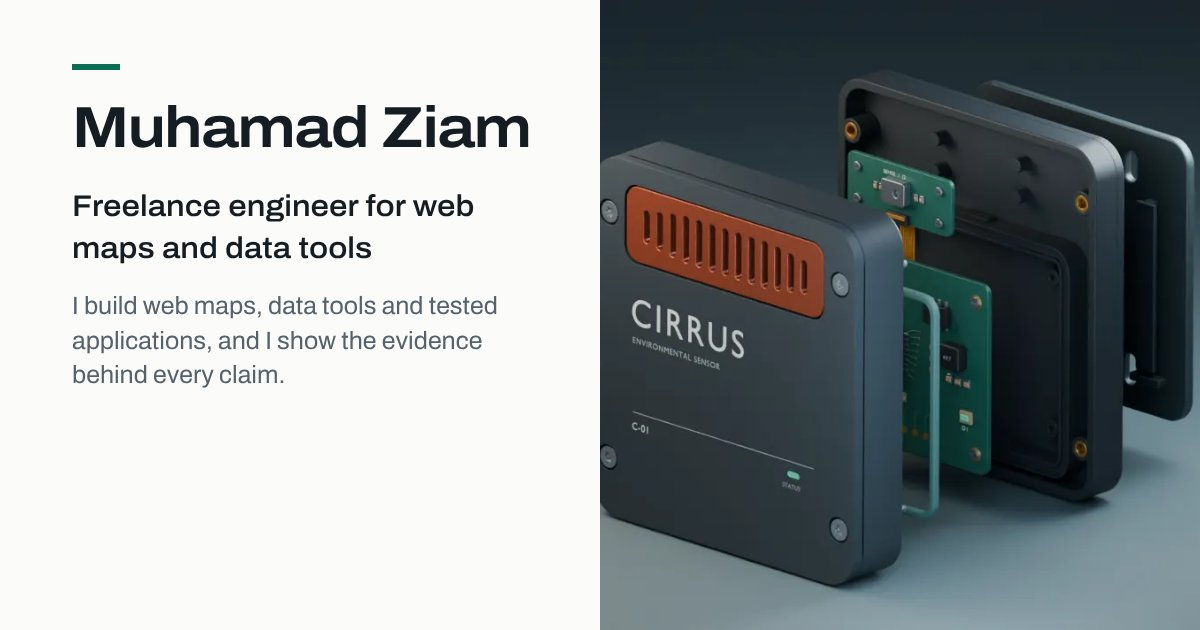
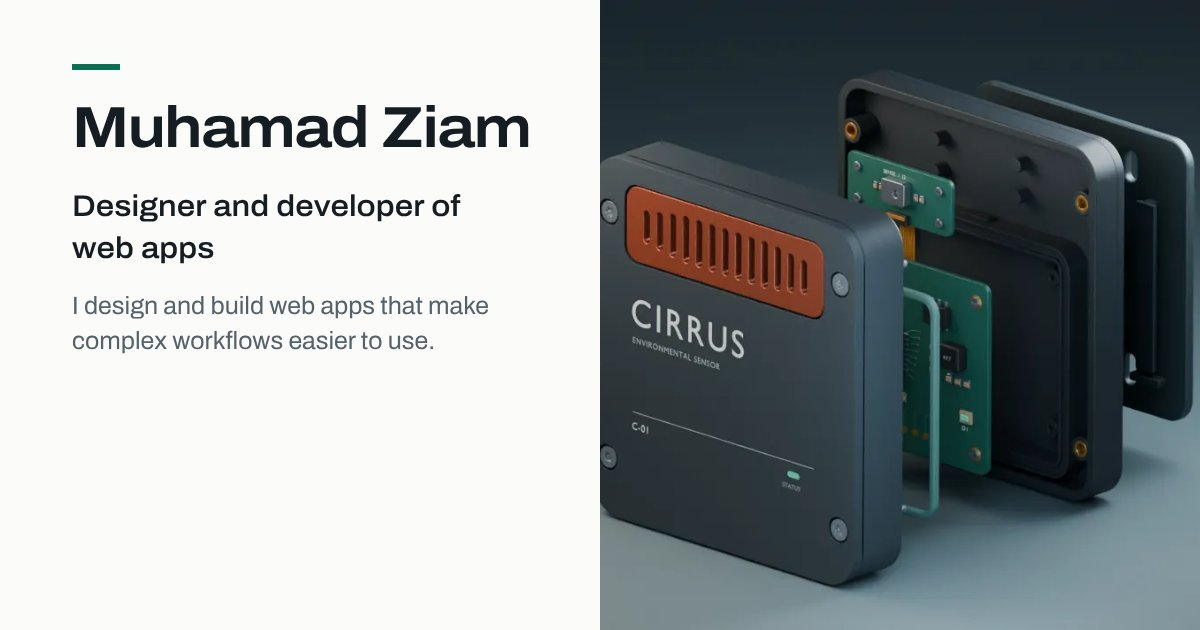
Wording from the Upwork profile: role, tagline, About and services
- Role "Designer and developer of web apps"; tagline "I design and build
  web apps that make complex workflows easier to use."
- About shows the profile description as three paragraphs (bio can now
  be a list), British spelling to match the site.
- Six services drawn from the profile: web apps for complex workflows,
  interactive prototypes, easier-to-use products, AI-assisted
  development, geospatial/3D/hardware, languages and writing.
- Featured projects lead with the web apps: tracker, paint, atlas.
- Page title, description and the social preview picture follow.

Claude-Session: https://claude.ai/code/session_01A373JP6kup97KCtmNnv3zT

Changed region(s): [[0.0617, 0.4524, 0.4317, 0.6333], [0.0617, 0.3016, 0.4008, 0.4222]]

diff --git a/site.config.js b/site.config.js
@@ -2,12 +2,16 @@
 export default {
   // Shown at the top left, in the home page heading and in page titles. Leave empty to show "Portfolio".
   name: 'Muhamad Ziam',
-  // DRAFT, taken from the positioning in the redesign brief. Shown under your name on the home page. Edit to suit.
-  role: 'Freelance engineer for web maps and data tools',
-  // DRAFT: one sentence under your role on the home page.
-  tagline: 'I build web maps, data tools and tested applications, and I show the evidence behind every claim.',
-  // TODO(owner): a few sentences about you for the About page. Hidden while empty.
-  bio: '',
+  // Shown under your name on the home page and in the footer. From your Upwork profile.
+  role: 'Designer and developer of web apps',
+  // One sentence under your role on the home page. From your Upwork profile.
+  tagline: 'I design and build web apps that make complex workflows easier to use.',
+  // The About page text: one paragraph per item. From your Upwork profile.
+  bio: [
+    'I design and build web apps that make complex workflows easier to use. I\'m the founder of TokenVault, which helps teams control access to sensitive customer information and keep a record of who accessed it.',
+    'If you\'re developing a new idea, I can help turn it into an interactive prototype. If you already have a product, I can make it easier for customers to understand and use. I also use tools like Claude Code and Codex to build and refine software, and can help optimise AI-assisted development workflows.',
+    'My experience includes geospatial data management, 3D modelling, AutoCAD, PCB design and advertising. I speak four languages fluently, can contribute to language model development and language teaching, and write across a range of styles.'
+  ],
   // TODO(owner): where you work from, for example 'Colombo, Sri Lanka'. Hidden while empty.
   location: '',
   // TODO(owner): for example 'Taking new projects'. Hidden while empty.
@@ -23,12 +27,14 @@ export default {
   // The GitHub account that owns the repositories; evidence links are built from it.
   githubUser: 'muhammmmadziam1234-eng',
   // The three projects shown large on the home page, by their address name.
-  featured: ['atlas', 'kit', 'lamp'],
-  // DRAFT: what you offer, written only from what the projects show. Edit, add or remove freely; keep figures out of here.
+  featured: ['tracker', 'paint', 'atlas'],
+  // What you offer, from your Upwork profile. Edit, add or remove freely; keep figures out of here.
   services: [
-    {title: 'Web maps and spatial analysis', text: 'Interactive maps that answer one clear question, with the analysis checked against an established geometry library.'},
-    {title: 'Data cleaning and validation', text: 'Libraries and command-line tools that tidy messy files, say why each record was rejected and write a report you can check.'},
-    {title: 'Tested web applications', text: 'Sign-in and roles, an API described in OpenAPI, and tests that run whenever the code changes.'},
-    {title: 'Circuit boards and product visuals', text: 'Board layout through to the files a factory needs, and product models rendered and animated in Blender.'}
+    {title: 'Web apps for complex workflows', text: 'Web apps that make complex workflows easier to use, from sign-in and roles to a record of who did what.'},
+    {title: 'Interactive prototypes', text: 'If you are developing a new idea, I can help turn it into an interactive prototype.'},
+    {title: 'Easier-to-use products', text: 'If you already have a product, I can make it easier for your customers to understand and use.'},
+    {title: 'AI-assisted development', text: 'I build and refine software with Claude Code and Codex, and can help you set up and improve AI-assisted development workflows.'},
+    {title: 'Geospatial, 3D and hardware', text: 'Geospatial data management, 3D modelling, AutoCAD and PCB design, and visuals for advertising.'},
+    {title: 'Languages and writing', text: 'Four languages spoken fluently, help with language model development and language teaching, and writing in a range of styles.'}
   ]
 };

diff --git a/index.html b/index.html
@@ -3,14 +3,14 @@
 <head>
 <meta charset="utf-8">
 <meta name="viewport" content="width=device-width,initial-scale=1">
-<title>Muhamad Ziam: freelance engineer for web maps and data tools</title>
-<meta name="description" content="Muhamad Ziam builds web maps, data tools and tested applications. Eight projects you can try in the browser, from a flood exposure map to a four-layer circuit board, each with the evidence behind it.">
+<title>Muhamad Ziam: designer and developer of web apps</title>
+<meta name="description" content="Muhamad Ziam designs and builds web apps that make complex workflows easier to use. Eight projects you can try in the browser, from a service desk to a four-layer circuit board, each with the evidence behind it.">
 <meta name="color-scheme" content="light dark">
 <meta name="theme-color" content="#fbfbf9" media="(prefers-color-scheme: light)">
 <meta name="theme-color" content="#0f1417" media="(prefers-color-scheme: dark)">
 <meta property="og:type" content="website">
-<meta property="og:title" content="Muhamad Ziam: freelance engineer for web maps and data tools">
-<meta property="og:description" content="Eight projects you can open and use, from a flood exposure map to a four-layer circuit board, each with the evidence behind it.">
+<meta property="og:title" content="Muhamad Ziam: designer and developer of web apps">
+<meta property="og:description" content="I design and build web apps that make complex workflows easier to use. Eight projects you can open and use, each with the evidence behind it.">
 <meta property="og:image" content="https://muhammmmadziam1234-eng.github.io/portfolio/assets/img/og.jpg">
 <meta name="twitter:card" content="summary_large_image">
 <link rel="icon" href="assets/img/favicon.svg" type="image/svg+xml">

diff --git a/assets/js/main.js b/assets/js/main.js
@@ -165,13 +165,16 @@ function renderHome(current) {
 
 /* ---------- about ---------- */
 function renderAbout() {
+  // The bio is one paragraph or a list of them; without one, the page says who you are from your role and tagline.
+  const bio = [].concat(config.bio || []).filter(Boolean);
+  if (!bio.length) bio.push([config.role && `${siteName}, ${config.role.charAt(0).toLowerCase()}${config.role.slice(1)}.`, config.tagline].filter(Boolean).join(' '));
   const skills = groups.map(g => ({label: g.label, tags: [...new Set(projects.filter(p => p.group === g.id).flatMap(p => p.tags))]}));
   const facts = [['Based in', config.location], ['Availability', config.availability]].filter(([, v]) => v);
   main.replaceChildren(
     h('section', {class: 'page-head'}, h('div', {class: 'container about-grid'},
       h('div', {},
         h('h1', {tabindex: '-1'}, 'About'),
-        h('p', {class: 'lead'}, config.bio || [config.role && `${siteName}, ${config.role.charAt(0).toLowerCase()}${config.role.slice(1)}.`, config.tagline].filter(Boolean).join(' ')),
+        bio.map((text, i) => h('p', {class: i ? 'bio' : 'lead'}, text)),
         facts.length ? h('dl', {class: 'about-facts'}, facts.map(([k, v]) => h('div', {}, h('dt', {}, k), h('dd', {}, v)))) : null),
       config.photo ? h('img', {class: 'about-photo', src: config.photo, alt: `Photo of ${siteName}`, width: 360, height: 360}) : null)),
     h('section', {class: 'section', 'aria-labelledby': 'skills-title'}, h('div', {class: 'container'},

diff --git a/assets/css/site.css b/assets/css/site.css
@@ -271,6 +271,7 @@ textarea{line-height:1.45}
 .page-head{padding-block:var(--s8) var(--s4)}
 .page-head h1{font-size:var(--fs-h1);font-stretch:112%;letter-spacing:-.025em;outline:none}
 .page-head .lead{margin-top:var(--s2);font-size:1.15rem;color:var(--muted);max-width:60ch}
+.page-head .bio{margin-top:var(--s2);max-width:65ch}
 .about-grid{display:grid;grid-template-columns:minmax(0,7fr) minmax(0,5fr);gap:var(--s6);align-items:start}
 .about-photo{width:100%;max-width:360px;aspect-ratio:1;object-fit:cover;border-radius:var(--radius);box-shadow:var(--shadow)}
 .about-facts{display:grid;gap:var(--s2);margin-top:var(--s3)}

diff --git a/README.md b/README.md
@@ -2,7 +2,7 @@
 
 [![Tests](https://github.com/muhammmmadziam1234-eng/portfolio/actions/workflows/test.yml/badge.svg?branch=main)](https://github.com/muhammmmadziam1234-eng/portfolio/actions/workflows/test.yml)
 
-The portfolio site of a freelance engineer for web maps and data tools: eight projects in three groups (geospatial and data, web applications, hardware and product design). Each project opens with something to try, and every number beside it links to the file in the project's own repository that holds it.
+The portfolio site of a designer and developer of web apps that make complex workflows easier to use: eight projects in three groups (geospatial and data, web applications, hardware and product design). Each project opens with something to try, and every number beside it links to the file in the project's own repository that holds it.
 
 It is plain HTML, CSS and JavaScript. There is no build step, no tracking, no cookies and no request to any other site.
 
@@ -80,7 +80,7 @@ Everything personal is in `site.config.js`. An empty value hides what it would s
 | `name` | Header, footer, home heading and page titles. Empty shows "Portfolio". |
 | `role` | One line under your name on the home page, and in the footer. |
 | `tagline` | One sentence under the role: what you build and for whom. |
-| `bio` | A few sentences for the About page. |
+| `bio` | The About page text: a sentence or two, or a list of paragraphs. Without it, About uses your role and tagline. |
 | `location` | Where you work from, on the About page. |
 | `availability` | For example "Taking new projects", on the About page. |
 | `email` | Adds "Send an email" to the contact band and an Email link to the footer. Only if you want it public. |
